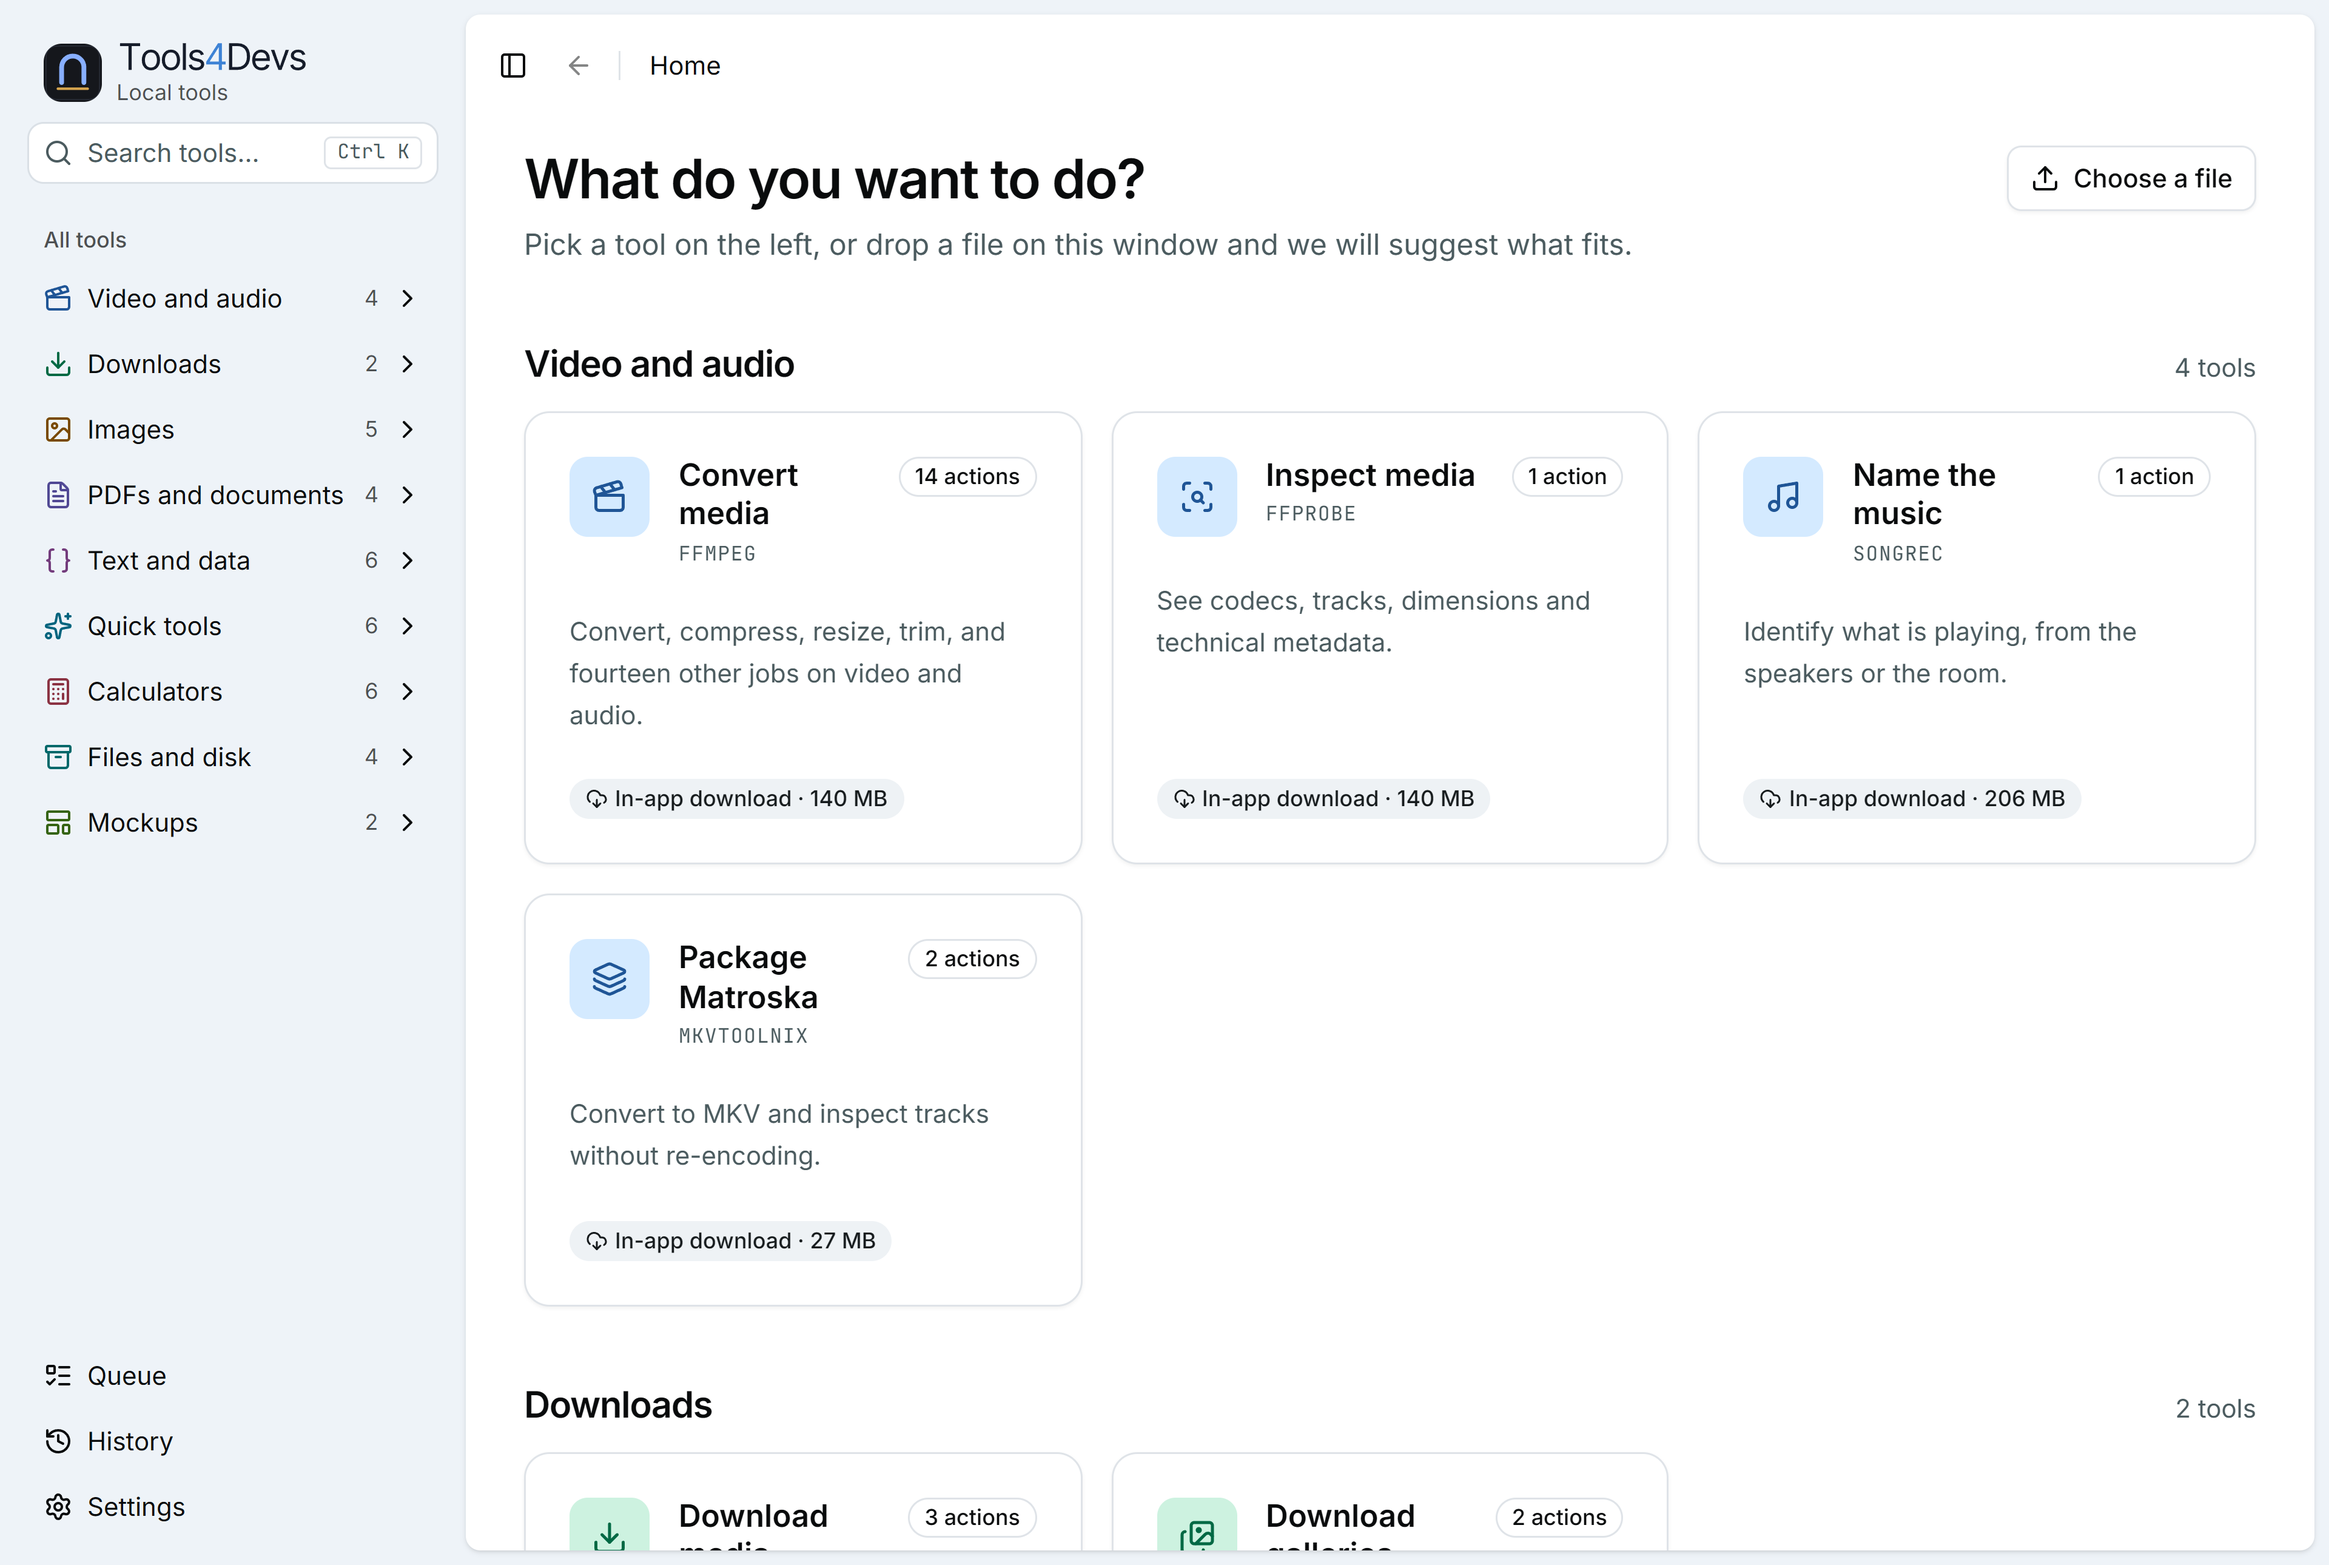
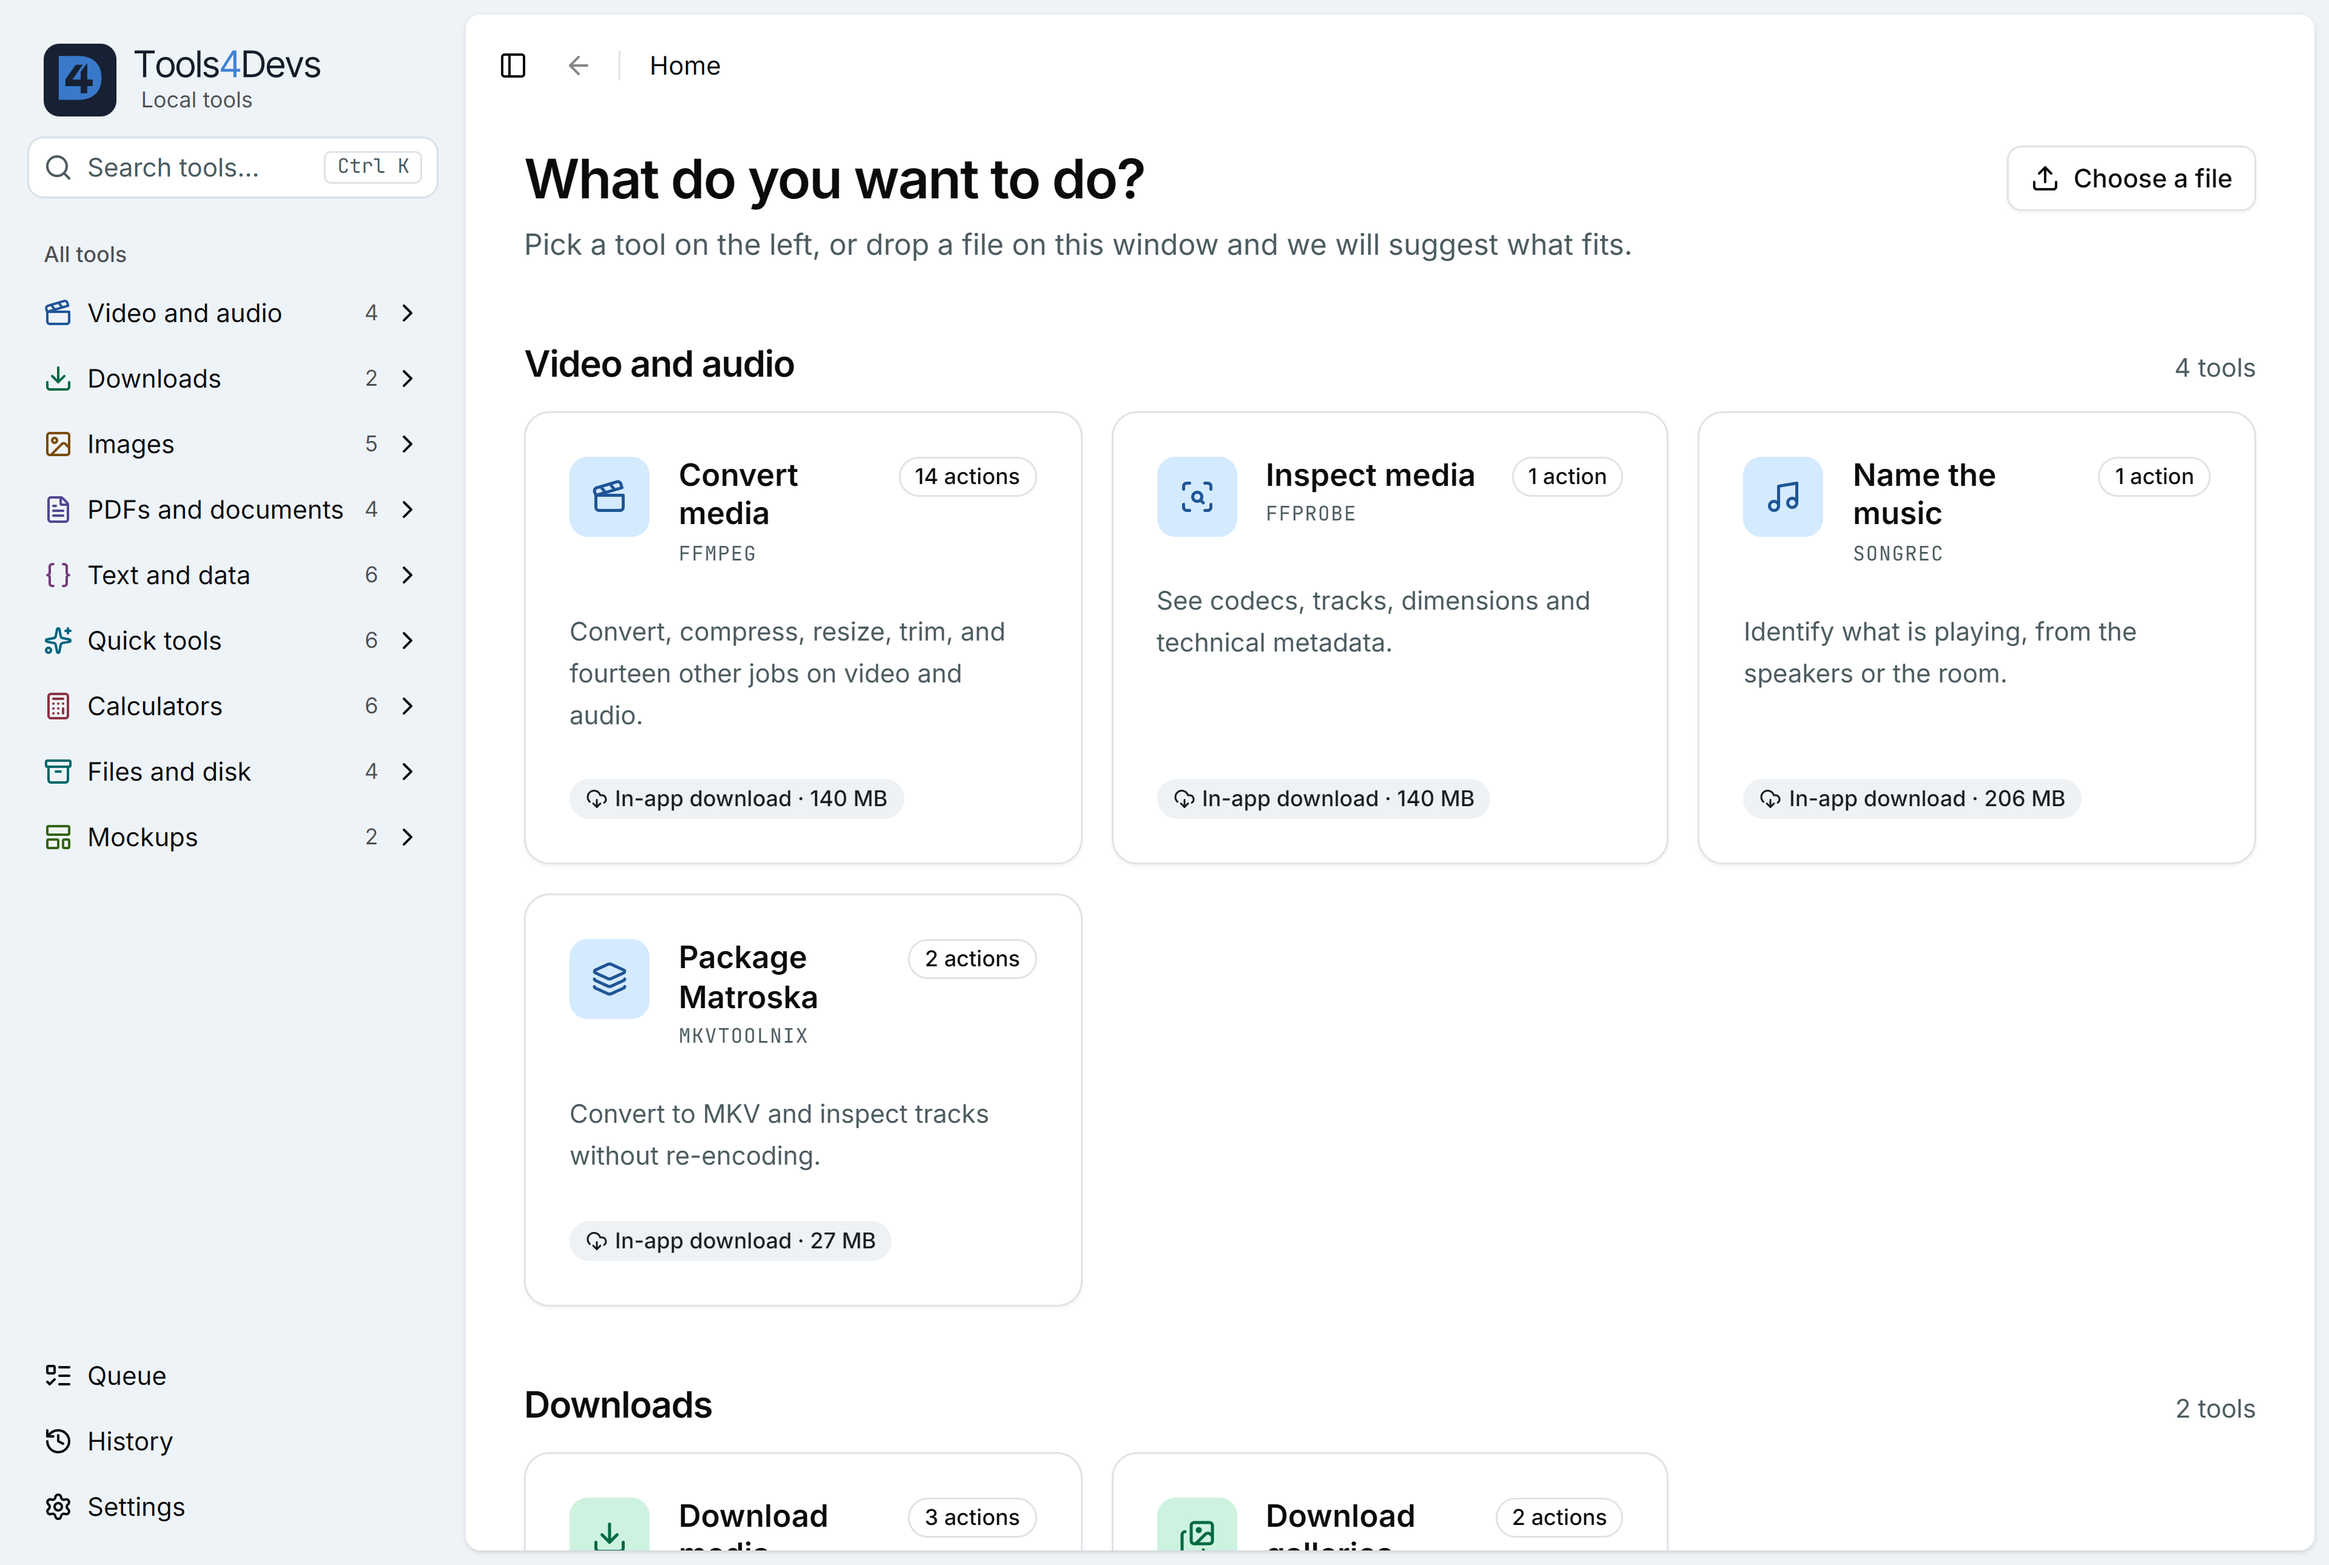
release: 5.0.0
The new interface: a sidebar tree with Ctrl+K search, tools as pages,
hover clips, window controls in the header, the D4 icon and the name
written Tools4Devs. The screenshots now show the new mark, and the
release notes template writes the name the same way.

Changed region(s): [[0.0, 0.155, 0.1562, 0.5581], [0.0, 0.031, 0.1875, 0.124]]

diff --git a/CHANGELOG.md b/CHANGELOG.md
@@ -2,44 +2,35 @@
 
 All notable changes to tools4devs. Versions follow [semantic versioning](https://semver.org/).
 
-## Unreleased
+## 5.0.0 (2026-10-01)
 
-### Changed
+A new interface. Every tool is one click or one search away, opens as a page instead of a dialog, and shows what it does before you open it.
 
-- Redesign the interface on Tailwind CSS 4 and shadcn/ui, with embedded Inter and JetBrains Mono, in light and dark.
-- Replace the category tabs with a sidebar tree of every tool and each of its actions. Pin the tools you use. The sidebar folds to icons in a narrow window and remembers your choice.
+### Added
+
+- A sidebar tree of every tool and each of its actions, one group open at a time. Pin the tools you use.
 - Search everything with Ctrl+K: actions first, then tools, in English or Portuguese, ignoring accents and word order.
-- Open tools as pages in the main window instead of a dialog. The sidebar and the path above the page follow the action you choose, and leaving unsaved work asks first.
-- Show every tool as a card with its group's colour, its engine and its actions. Hovering or focusing a card plays a six-second clip of the tool at work, or shows a still with reduced motion.
+- A six-second clip of each tool at work when you hover or focus its card, or a still with reduced motion.
 - Drop or choose a file on the home page to see the tools that can open it.
-- Rebuild the queue, history, settings, install dialog, update notice, quick tools and chat and post mockups to match. A quick tool page is named after the tool and shows input and result side by side.
-- Clearing the history asks for confirmation.
-- Replace the app icon with the D4 mark: in relief from 48 px up, flat up to 32 px, where the relief would blur. The .ico carries both, so Windows picks the right one for each place.
-- Write the name as Tools4Devs wherever it is shown: window title, logo, About page and messages. The executable, installer keys, saved settings and update channel keep the lowercase identifier, so installed copies keep updating.
-- Drop the Windows title bar: minimise, maximise and close sit in the page header, drawn with the system's own icons. The header moves the window, a double click maximises it, and a pause over maximise opens the Windows 11 snap layouts.
-- Add a Back button (Alt+Left) and make the path above each page clickable, starting from Home.
-- Add an About page, from Settings, listing every bundled or downloadable tool with its version, licence, hash and project.
-- Open and close the sidebar smoothly; labels fade instead of shrinking. Groups and tools in the tree slide open and shut.
-
-### Fixed
-
-- The CSS generators' box sample now has a size of its own; box shadow and border radius previews used to draw nothing.
-- An FFmpeg found on PATH without the encoders the app uses (Gyan's build has libx264, not libopenh264) counts as missing, so the app offers its own instead of failing to convert or compress video.
-- Buttons and the sidebar tree show the hand cursor again, tool names in the tree no longer run under the pin star, and the settings drop-downs open below their field instead of over it.
-
-
+- A Back button (Alt+Left), and a clickable path above each page, starting from Home.
+- An About page, from Settings, listing every bundled or downloadable tool with its version, licence, hash and project.
+- Calculators and CSS generators get their own layouts: your numbers beside the answer, or options beside a live preview and the CSS to copy.
 
 ### Changed
 
-- Use tools4devs for the Windows application identity, publisher, installer registry keys, installation directory, component store and saved preference keys.
-- Migrate existing profiles, settings, history and downloaded tools automatically. Keep the previous profile as a recovery copy and preserve downloaded components in the new tools4devs directory; never overwrite an existing tools4devs profile. The previous component directory may be removed with the old installation.
-- Retarget existing shortcuts to the new installation and remove the previous app registration after the replacement installer has completed.
-- Keep the legacy update channel pinned to the signed 3.4.0 bridge. The tools4devs channel advertises 4.0.0 and future releases.
+- The interface is rebuilt on Tailwind CSS 4 and shadcn/ui, with embedded Inter and JetBrains Mono, in light and dark.
+- Tools open as pages in the main window instead of a dialog. Leaving unsaved work asks first.
+- The window has no title bar: minimise, maximise and close sit in the page header, drawn with the system's own icons. The header moves the window, a double click maximises it, and a pause over maximise opens the Windows 11 snap layouts.
+- A new icon, the D4 mark: in relief from 48 px up, flat at the sizes where relief would blur.
+- The name is written Tools4Devs wherever it is shown. The executable, installer keys, saved settings and update channel keep the lowercase identifier, so installed copies keep updating.
+- The queue, history, settings, install dialog, update notice and mockups are rebuilt to match. Clearing the history asks for confirmation.
+- Secondary text reaches 7:1 contrast in both themes; scrollbars are thin and follow the theme.
 
 ### Fixed
 
-- Stop migration before opening the new profile if data cannot be copied safely. Existing data remains intact, and migration can be retried.
-- Preserve the original updater signing key and MSI upgrade family across the identity change.
+- An FFmpeg found on PATH without the encoders the app uses (Gyan's build has libx264, not libopenh264) counts as missing, so the app offers its own instead of failing to convert or compress video.
+- The CSS generators' box sample has a size of its own; box shadow and border radius previews used to draw nothing.
+- Clicking a card quickly could be lost when its preview opened between press and release.
 
 ## 3.4.0 (2026-09-27)
 
